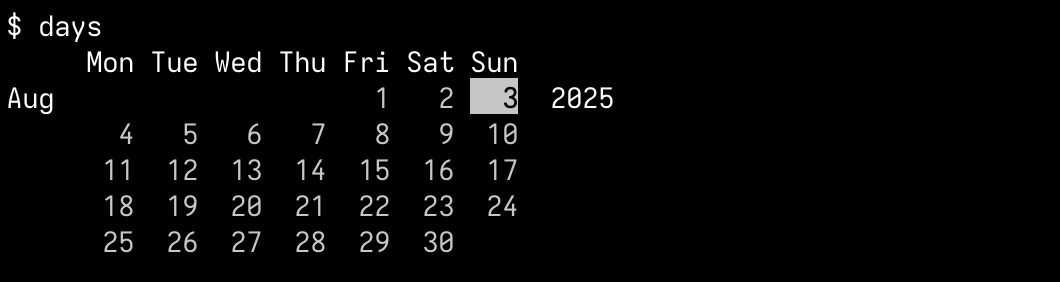
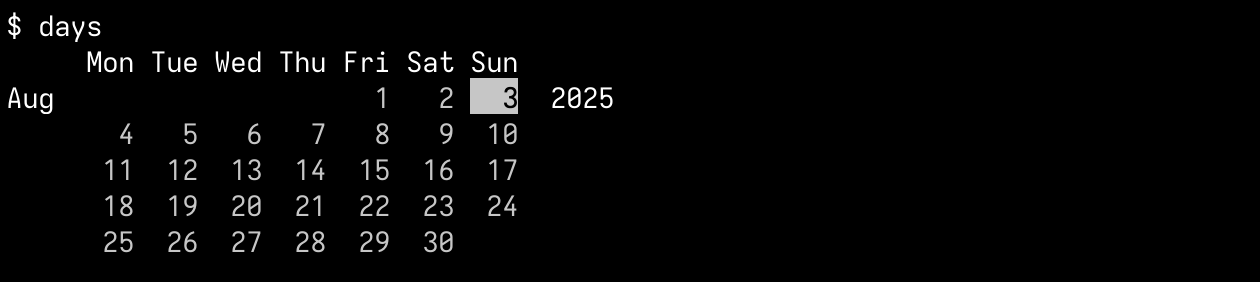
Also print nights

diff --git a/main.go b/main.go
@@ -71,12 +71,14 @@ func main() {
 
 		switch {
 		case workday > 0 && weekend > 0:
-			fmt.Printf("%d day%s (%d work day%s + %d weekend day%s)\n", days, pl(days), workday, pl(workday), weekend, pl(weekend))
+			fmt.Printf("%d day%s (%d work day%s + %d weekend day%s)", days, pl(days), workday, pl(workday), weekend, pl(weekend))
 		case workday > 0 && weekend == 0:
-			fmt.Printf("%d work day%s\n", workday, pl(workday))
+			fmt.Printf("%d work day%s", workday, pl(workday))
 		case workday == 0 && weekend > 0:
-			fmt.Printf("%d weekend day%s\n", weekend, pl(weekend))
+			fmt.Printf("%d weekend day%s", weekend, pl(weekend))
 		}
+
+		fmt.Printf(" (%d night%s)\n", days-1, pl(days-1))
 	}
 }
 

diff --git a/README.md b/README.md
@@ -4,9 +4,9 @@
 
 Prints date spans.
 
-<img src="img/001.png" width="530px"></br>
-<img src="img/002.png" width="530px"></br>
-<img src="img/003.png" width="530px"></br>
+<img src="img/001.png" width="630px"></br>
+<img src="img/002.png" width="630px"></br>
+<img src="img/003.png" width="630px"></br>
 
 ## Usage
 ```
